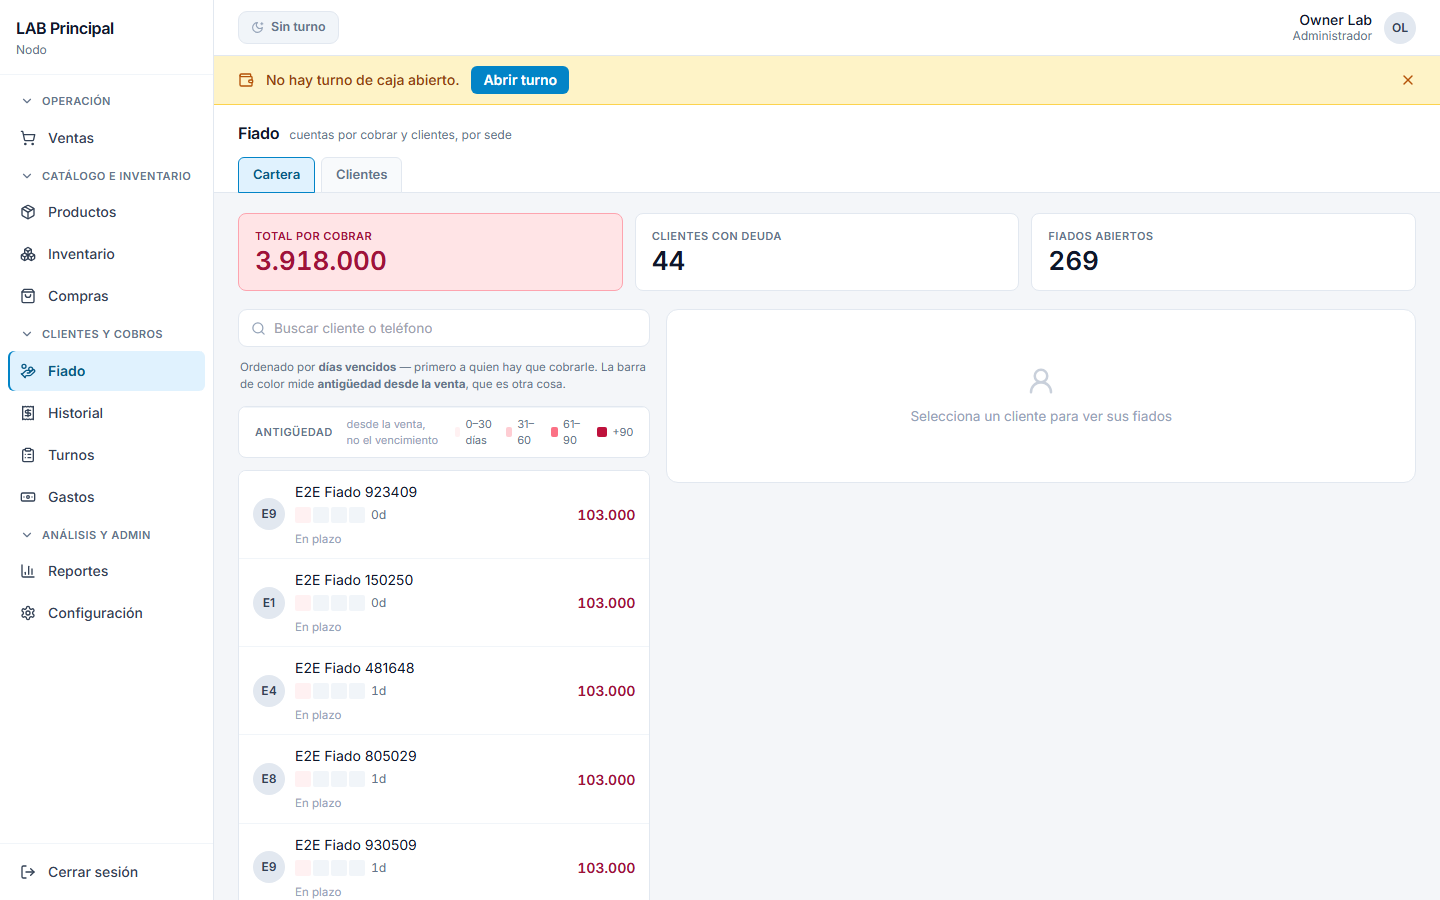
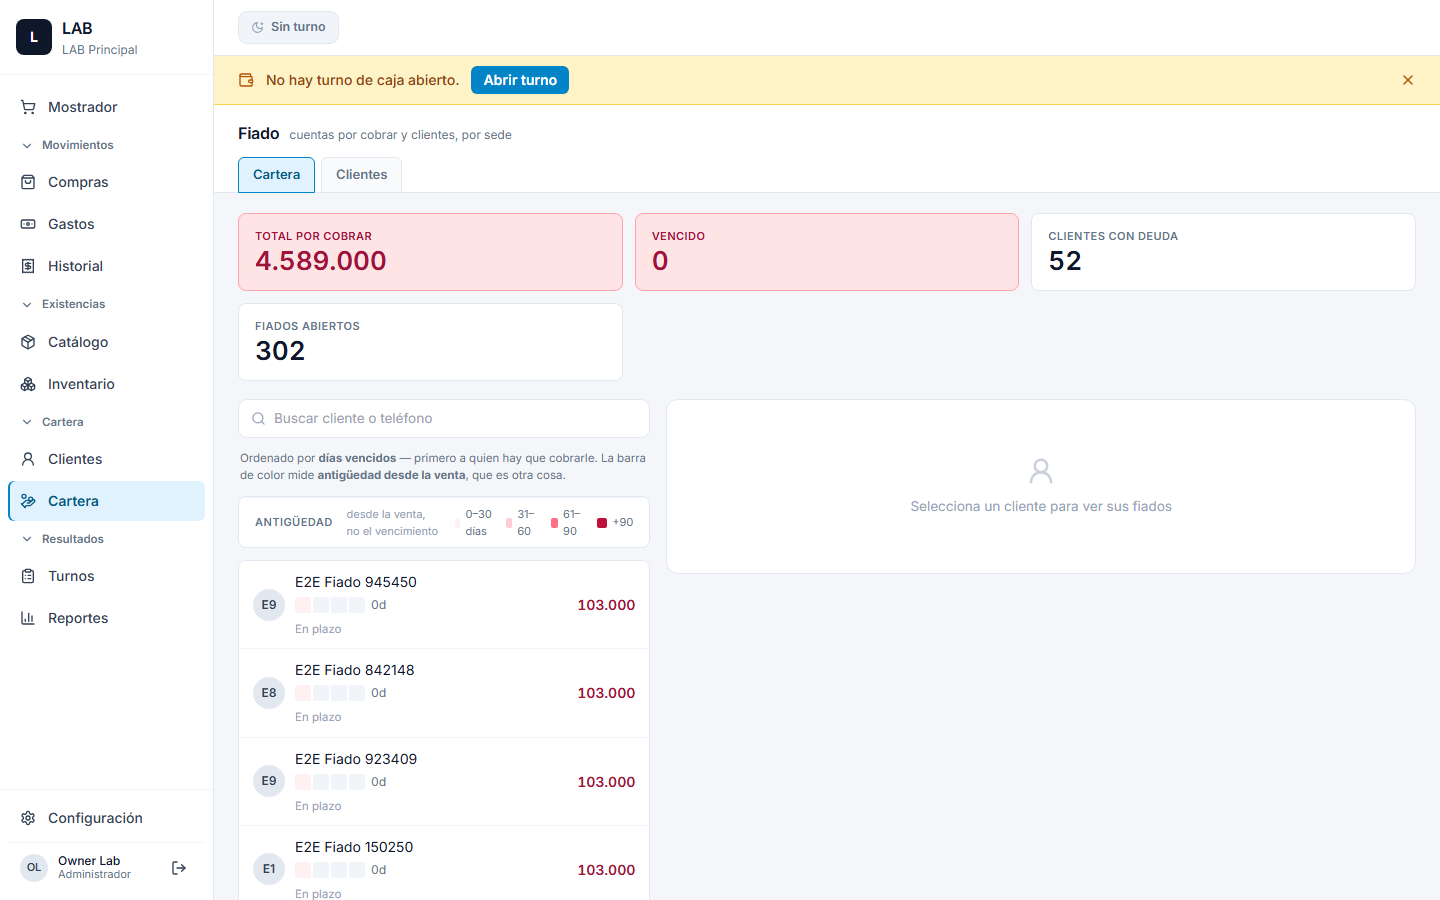
feat(reskin): A6 tanda 5 — el resto de las (a) visuales
- Configuracion: "Nombre del sede" -> "Nombre de la sede". Error de concordancia
  visible al cliente, trivial de arreglar y sobrevivio a un re-skin entero
- Inventario: "Insumos" -> "Productos" en el KPI, el buscador y el vacio.
  "Insumo" es vocabulario heredado de VENTO, donde era el ingrediente de una
  receta; §7.15 fija el vocabulario neutro: «Productos, clientes, pedidos»
- Cartera: KPI de VENCIDO —la cifra que dispara la accion, calculable desde la
  deuda 46— y la fila en mora pintada como fila (§4 DataRow: fondo --d1 +
  inset 3px var(--debt)) con badge "Mora N dias" en vez de un texto suelto

⚠ NO se pinta RECAUDADO HOY, el tercer KPI de la maqueta: exige sumar los
abonos del dia, que es una consulta que hoy no existe. Inventar el numero seria
peor que no mostrarlo.

🔴 Y un (d) que casi borro: quite "Fiados abiertos" para dejar tres KPI como la
maqueta, y lo cazo fiado.spec. La maqueta no lo dibuja pero el producto lo da:
es (d) NO DIBUJADO y la regla es que NO SE TOCA. Restaurado — quedan cuatro KPI
donde la maqueta muestra tres, y la divergencia es deliberada.

Pares comparados: docs/auditorias/A6/{app,maqueta}/{cartera,inventario,configuracion}-normal.png
Grupo afectado: 27 passed, grupo_exit=0. tsc 0 · lint 0.

diff --git a/src/pages/FiadoPage.tsx b/src/pages/FiadoPage.tsx
@@ -9,7 +9,7 @@ import { Button } from '@/components/ui/Button'
 import { KpiCard } from '@/components/ui/KpiCard'
 import { MoneyCell } from '@/components/ui/MoneyCell'
 import { AgingBar, AgingBarLeyenda } from '@/components/ui/AgingBar'
-import { diasVencidosMax } from '@/lib/cartera'
+import { diasVencidosMax, diasVencidos } from '@/lib/cartera'
 import { PageHeader } from '@/components/ui/PageHeader'
 import { formatoCOP } from '@/lib/formato'
 
@@ -131,9 +131,30 @@ function DebtsTab({ onAbono }: { onAbono: (d: Debt) => void }) {
   // 🔴 "Por cobrar" es DEUDA (--debt), no error (--danger): que un cliente deba
   //    no es que alguien haya hecho algo mal. Los otros dos son conteos: tono
   //    normal. Antes los tres compartían el mismo rojo var(--debt).
+  // 🔴 VENCIDO como KPI propio — A6 · tanda 5. La maqueta muestra plata en los
+  //    tres (POR COBRAR · VENCIDO · RECAUDADO HOY) y la app mostraba dos
+  //    CONTEOS. "Vencido" es la cifra que dispara la acción y ya es calculable
+  //    desde la deuda 46; se suma el saldo de los fiados con días vencidos > 0.
+  //
+  // ⚠ El tercero de la maqueta —RECAUDADO HOY— NO se pinta: exige sumar los
+  //    abonos del día, que es una consulta que hoy no existe. Inventar el
+  //    número sería peor que no mostrarlo; queda anotado como pendiente.
+  const totalVencido = groups.reduce(
+    (s, g) => s + g.fiados.reduce(
+      (t, d) => t + ((diasVencidos(d.created_at, d.plazo_dias) ?? 0) > 0 ? d.saldo : 0), 0,
+    ),
+    0,
+  )
+
   const kpis = [
     { key: 'por-cobrar', label: 'Total por cobrar', value: formatoCOP(totalPorCobrar), tone: 'debt' as const },
+    { key: 'vencido', label: 'Vencido', value: formatoCOP(totalVencido), tone: 'debt' as const },
     { key: 'clientes-deuda', label: 'Clientes con deuda', value: String(clientesConDeuda), tone: 'normal' as const },
+    // ⚠ "Fiados abiertos" NO está en la maqueta: es un (d) NO DIBUJADO. Por eso
+    //    SE QUEDA — un (d) no se toca en el re-skin, y quitarlo porque el dibujo
+    //    no lo tenía sería la maqueta borrando información que el producto da.
+    //    Resultado: cuatro KPI donde la maqueta muestra tres. La divergencia es
+    //    deliberada y queda anotada.
     { key: 'fiados-abiertos', label: 'Fiados abiertos', value: String(fiadosAbiertos), tone: 'normal' as const },
   ]
 
@@ -193,7 +214,7 @@ function DebtsTab({ onAbono }: { onAbono: (d: Debt) => void }) {
                   // Fila SELECCIONADA (§4 DataRow): fondo --action-soft +
                   // `inset 3px 0 0 var(--action)`. Es una elección del usuario,
                   // no un estado del dato — mismo par que el NavItem activo.
-                  style={{ width: '100%', textAlign: 'left', display: 'flex', alignItems: 'center', gap: 10, padding: '10px 14px', border: 'none', borderTop: idx > 0 ? '1px solid var(--border-2)' : 'none', boxShadow: active ? 'inset 3px 0 0 var(--action)' : 'none', background: active ? 'var(--action-soft)' : 'var(--surface)', cursor: 'pointer', fontFamily: 'inherit' }}
+                  style={{ width: '100%', textAlign: 'left', display: 'flex', alignItems: 'center', gap: 10, padding: '10px 14px', border: 'none', borderTop: idx > 0 ? '1px solid var(--border-2)' : 'none', boxShadow: active ? 'inset 3px 0 0 var(--action)' : (g.diasVencidos ?? 0) > 0 ? 'inset 3px 0 0 var(--debt)' : 'none', background: active ? 'var(--action-soft)' : (g.diasVencidos ?? 0) > 0 ? 'var(--d1)' : 'var(--surface)', cursor: 'pointer', fontFamily: 'inherit' }}
                 >
                   <div style={{ width: 32, height: 32, borderRadius: '50%', background: active ? 'var(--action)' : 'var(--border)', color: active ? '#fff' : 'var(--ink-2)', display: 'grid', placeItems: 'center', fontSize: 12, fontWeight: 600, flexShrink: 0 }}>
                     {initials(g.customerName)}
@@ -209,12 +230,18 @@ function DebtsTab({ onAbono }: { onAbono: (d: Debt) => void }) {
                     {/* Vencido: es el número por el que se ordena, así que se ve.
                         `—` cuando no hay plazo pactado: no se puede afirmar que
                         esté al día, y un 0 lo afirmaría. */}
-                    <div data-testid="customer-row-vencido" style={{ marginTop: 2, fontSize: 11.5, color: (g.diasVencidos ?? 0) > 0 ? 'var(--debt-on-soft)' : 'var(--ink-4)' }}>
-                      {g.diasVencidos == null
-                        ? '— sin plazo pactado'
-                        : g.diasVencidos > 0
-                          ? `${g.diasVencidos} ${g.diasVencidos === 1 ? 'día' : 'días'} vencido`
-                          : 'En plazo'}
+                    {/* 🔴 §4 DataRow: «En mora: fondo --d1 + inset 3px 0 0
+                        var(--debt)». La fila en mora se pinta como fila, no
+                        sólo con un texto debajo del nombre. El badge lleva los
+                        días, que es el dato por el que está ordenada. */}
+                    <div data-testid="customer-row-vencido" style={{ marginTop: 2, display: 'flex', alignItems: 'center', gap: 6 }}>
+                      {g.diasVencidos == null ? (
+                        <span style={{ fontSize: 11.5, color: 'var(--ink-4)' }}>— sin plazo pactado</span>
+                      ) : g.diasVencidos > 0 ? (
+                        <Badge tone="debt">Mora {g.diasVencidos} {g.diasVencidos === 1 ? 'día' : 'días'}</Badge>
+                      ) : (
+                        <span style={{ fontSize: 11.5, color: 'var(--ink-4)' }}>En plazo</span>
+                      )}
                     </div>
                   </div>
                   <MoneyCell

diff --git a/src/pages/InventoryPage.tsx b/src/pages/InventoryPage.tsx
@@ -101,7 +101,11 @@ function LevelsTab({ products, onAdjust }: { products: ProductWithCategory[]; on
             un RE-SKIN: misma información, con el design system. Información
             nueva es su propia decisión. Anotado como hueco de FUNCIONALIDAD, no
             de datos, en docs/reskin-esquema.md. */}
-        <KpiCard etiqueta="Insumos con inventario" valor={summary.total} />
+        {/* 🔴 Decía "Insumos": vocabulario heredado de VENTO, donde un insumo
+            era el ingrediente de una receta. §7.15 fija el vocabulario neutro
+            del producto — «Productos, clientes, pedidos» — y acá lo que se
+            cuenta son productos. */}
+        <KpiCard etiqueta="Productos con existencia" valor={summary.total} />
         <KpiCard etiqueta="Sin stock (0)" valor={summary.out} />
         <KpiCard etiqueta="Stock bajo" valor={summary.low} tono={summary.low > 0 ? 'warning' : 'normal'} />
         <KpiCard etiqueta="En negativo" valor={summary.negative} tono={summary.negative > 0 ? 'debt' : 'normal'} />
@@ -114,7 +118,7 @@ function LevelsTab({ products, onAdjust }: { products: ProductWithCategory[]; on
           <input
             value={query}
             onChange={(e) => setQuery(e.target.value)}
-            placeholder="Buscar insumo..."
+            placeholder="Buscar producto..."
             style={{ flex: 1, border: 'none', outline: 'none', background: 'transparent', fontSize: 13, color: 'var(--ink)' }}
           />
           {query && <button onClick={() => setQuery('')} style={{ background: 'none', border: 'none', cursor: 'pointer', color: 'var(--ink-4)', padding: 0, display: 'grid', placeItems: 'center' }}><X size={13} /></button>}
@@ -142,7 +146,7 @@ function LevelsTab({ products, onAdjust }: { products: ProductWithCategory[]; on
         <table style={{ width: '100%', borderCollapse: 'collapse', fontSize: 13 }}>
           <thead>
             <tr style={{ background: 'var(--surface-2)', textAlign: 'left', color: 'var(--ink-3)', fontSize: 11.5 }}>
-              <th style={{ padding: '10px 16px', fontWeight: 600 }}>Insumo</th>
+              <th style={{ padding: '10px 16px', fontWeight: 600 }}>Producto</th>
               <th style={{ padding: '10px 16px', fontWeight: 600 }}>Categoría</th>
               <th style={{ padding: '10px 16px', fontWeight: 600, textAlign: 'right' }}>Stock</th>
               <th style={{ padding: '10px 16px', fontWeight: 600, textAlign: 'right' }}>Mínimo</th>
@@ -152,7 +156,7 @@ function LevelsTab({ products, onAdjust }: { products: ProductWithCategory[]; on
           </thead>
           <tbody>
             {filtered.length === 0 ? (
-              <tr><td colSpan={6} style={{ padding: '40px 16px', textAlign: 'center', color: 'var(--ink-4)' }}>Sin insumos que coincidan</td></tr>
+              <tr><td colSpan={6} style={{ padding: '40px 16px', textAlign: 'center', color: 'var(--ink-4)' }}>Sin productos que coincidan</td></tr>
             ) : filtered.map(p => {
               const st = stockStatus(p)
               const stock = p.stock_qty ?? 0

diff --git a/tests/inventario.spec.ts b/tests/inventario.spec.ts
@@ -47,7 +47,7 @@ async function createComposite(page: Page, name: string, price: string, insumo: 
 async function readStock(page: Page, name: string): Promise<number> {
   await page.goto('/inventario')
   await page.getByTestId('inventory-tab-levels').click()
-  await page.getByPlaceholder('Buscar insumo...').fill(name)
+  await page.getByPlaceholder('Buscar producto...').fill(name)
   const row = page.getByTestId('stock-level-row').filter({ hasText: name })
   await expect(row).toBeVisible()
   return Number(await row.getByTestId('stock-level-qty').innerText())
@@ -160,7 +160,7 @@ test.describe.serial('Inventario por recetas', () => {
 
     // Badge de estado "Reponer" en Niveles.
     await page.goto('/inventario')
-    await page.getByPlaceholder('Buscar insumo...').fill(INSUMO)
+    await page.getByPlaceholder('Buscar producto...').fill(INSUMO)
     const row = page.getByTestId('stock-level-row').filter({ hasText: INSUMO })
     await expect(row.getByTestId('stock-status-badge')).toContainText('Reponer')
 

diff --git a/tests/extras-pos.spec.ts b/tests/extras-pos.spec.ts
@@ -49,7 +49,7 @@ async function createExtra(page: Page, name: string, price: string, linkedProduc
 async function readStock(page: Page, productName: string): Promise<number> {
   await page.goto('/inventario')
   await page.getByTestId('inventory-tab-levels').click()
-  await page.getByPlaceholder('Buscar insumo...').fill(productName)
+  await page.getByPlaceholder('Buscar producto...').fill(productName)
   const row = page.getByTestId('stock-level-row').filter({ hasText: productName })
   await expect(row).toBeVisible()
   return Number(await row.getByTestId('stock-level-qty').innerText())

diff --git a/tests/fiado.spec.ts b/tests/fiado.spec.ts
@@ -57,7 +57,7 @@ async function sellOnFiado(page: Page, customer: string): Promise<number> {
 async function readStock(page: Page, name: string): Promise<number> {
   await page.goto('/inventario')
   await page.getByTestId('inventory-tab-levels').click()
-  await page.getByPlaceholder('Buscar insumo...').fill(name)
+  await page.getByPlaceholder('Buscar producto...').fill(name)
   const row = page.getByTestId('stock-level-row').filter({ hasText: name })
   await expect(row).toBeVisible()
   return Number(await row.getByTestId('stock-level-qty').innerText())

diff --git a/tests/compras.spec.ts b/tests/compras.spec.ts
@@ -54,7 +54,7 @@ async function registerPurchase(
 async function readStock(page: Page, name: string): Promise<number> {
   await page.goto('/inventario')
   await page.getByTestId('inventory-tab-levels').click()
-  await page.getByPlaceholder('Buscar insumo...').fill(name)
+  await page.getByPlaceholder('Buscar producto...').fill(name)
   const row = page.getByTestId('stock-level-row').filter({ hasText: name })
   await expect(row).toBeVisible()
   return Number(await row.getByTestId('stock-level-qty').innerText())

diff --git a/src/pages/ConfigPage.tsx b/src/pages/ConfigPage.tsx
@@ -319,7 +319,7 @@ function SectionSede() {
 
       <div style={{ display: 'grid', gap: 16, gridTemplateColumns: '1fr 1fr', maxWidth: 560 }}>
         <div style={{ gridColumn: '1 / -1' }}>
-          <FieldLabel>Nombre del sede</FieldLabel>
+          <FieldLabel>Nombre de la sede</FieldLabel>
           <TextInput value={name} onChange={setName} placeholder="Nodo Resto" testId="config-sede-name" />
         </div>
         <div style={{ gridColumn: '1 / -1' }}>

diff --git a/tests/stock-bajo-pos.spec.ts b/tests/stock-bajo-pos.spec.ts
@@ -104,7 +104,7 @@ test.describe.serial('Stock bajo en el POS', () => {
 
     await page.goto('/inventario')
     await page.getByTestId('inventory-tab-levels').click()
-    await page.getByPlaceholder('Buscar insumo...').fill(PROD)
+    await page.getByPlaceholder('Buscar producto...').fill(PROD)
     const row = page.getByTestId('stock-level-row').filter({ hasText: PROD })
     await expect(row.getByTestId('stock-status-badge')).toHaveText('Stock bajo')
 
